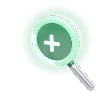
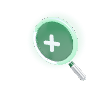
Lupa menor e proporcional (e à prova de sumir); Serviços com título junto ao menu e letras maiores
Claude-Session: https://claude.ai/code/session_01W4EMxrHJE2KvoUZMjh5ybf

Changed region(s): [[0.25, 0.0938, 1.0, 0.9688]]

diff --git a/src/app/theme-claro.css b/src/app/theme-claro.css
@@ -1752,9 +1752,9 @@ html.bolha-aberta a, html.bolha-aberta button, html.bolha-aberta button * { curs
 /* ================= LUPA 3D que amplia o texto (23/11/2026, modelo 2 do Victor) — src/lib/bolha.ts =================
    O card não sai do lugar: a lente segue o mouse e mostra uma cópia do card ampliada 2,2x embaixo dela. */
 .card--bolha.com-lupa, .card--bolha.com-lupa * { cursor: none !important; }
-.lupa-lente { position: fixed; left: 0; top: 0; width: 468px; height: 501px; z-index: 135; pointer-events: none; opacity: 0; will-change: transform; }
-.lupa-lente__vidro { position: absolute; left: 107px; top: 115px; width: 210px; height: 210px; border-radius: 50%; overflow: hidden; background: #fff;
-  box-shadow: inset 0 0 0 1px rgba(255, 255, 255, .6), inset 0 0 22px rgba(6, 42, 23, .28); }
+.lupa-lente { position: fixed; left: 0; top: 0; width: 211px; height: 227px; z-index: 135; pointer-events: none; opacity: 0; will-change: transform; }
+.lupa-lente__vidro { position: absolute; left: 31.5px; top: 36px; width: 132px; height: 132px; border-radius: 50%; overflow: hidden; background: #fff;
+  box-shadow: inset 0 0 0 1px rgba(255, 255, 255, .6), inset 0 0 14px rgba(6, 42, 23, .28); }
 .lupa-lente__conteudo { position: absolute; left: 0; top: 0; transform-origin: 0 0; }
 .lupa-lente__brilho { position: absolute; inset: 0; border-radius: 50%; pointer-events: none;
   background: radial-gradient(ellipse 46% 30% at 32% 22%, rgba(255, 255, 255, .55), transparent 70%),
@@ -1766,3 +1766,19 @@ html.bolha-aberta a, html.bolha-aberta button, html.bolha-aberta button * { curs
 .lupa-lente .lupa-ctx > i, .lupa-lente .work__grid > i, .lupa-lente .work__grupo-head { display: none !important; }
 .lupa-lente .card, .lupa-lente .project { margin: 0 !important; transform: none !important; translate: none !important; scale: none !important;
   animation: none !important; opacity: 1 !important; visibility: visible !important; }
+
+/* SERVIÇOS no computador (Victor, 23/11/2026: "título longe do menu", "letra muito pequena"): título a ~10px do menu
+   (o respiro vem de paginas.ts), letras maiores e o bloco usando 90% da LARGURA DA TELA (largura de layout = tela ÷ zoom):
+   cards largos = menos linhas = a página cabe com zoom maior = letra maior na tela */
+@media (min-width: 761px) {
+  html.modo-paginas .services { padding-top: 0 !important; }
+  html.modo-paginas .services__pin { padding: 0 0 18px !important; }
+  html.modo-paginas .services__head { margin-bottom: 18px !important; }
+  html.modo-paginas .services__head, html.modo-paginas .services__track { width: calc(90vw * var(--inv-zoom, 1)) !important; max-width: none !important;
+    margin-left: auto !important; margin-right: auto !important; padding-left: 0 !important; padding-right: 0 !important; }
+  html.modo-paginas .services .section-title { font-size: clamp(2.4rem, 3.4vw, 3.4rem) !important; }
+  html.modo-paginas .services__lead { font-size: 1.2rem !important; max-width: 70ch !important; }
+  html.modo-paginas .services__track .card h3, html.modo-paginas .services__track .card:nth-child(1) h3 { font-size: 1.75rem !important; }
+  html.modo-paginas .services__track .card p, html.modo-paginas .services__track .card:nth-child(1) p { font-size: 1.22rem !important; line-height: 1.5 !important; }
+  html.modo-paginas .services__track .card--cta h3 { font-size: 1.9rem !important; }
+}

diff --git a/src/lib/bolha.ts b/src/lib/bolha.ts
@@ -14,9 +14,9 @@ import gsap from "gsap";
  *    Esc, voltando para o card. A cópia mora no <body> (fora do `zoom` das páginas) e rola com o mouse por dentro.
  *    Enquanto aberta, `html.bolha-aberta` segura a troca de páginas (paginas.ts).
  */
-const AUMENTO = 2.2;
-// moldura renderizada: centro da lente e raio interno (px CSS) dentro da imagem de 468×501
-const MOLDURA = { w: 468, h: 501, cx: 212, cy: 220, r: 105 };
+const AUMENTO = 2.1;
+// moldura renderizada (2ª versão, "mais proporcional": aro fino, cabo curto): centro da lente e raio interno em px CSS
+const MOLDURA = { w: 211, h: 227, cx: 97.5, cy: 102, r: 66 };
 
 export function iniciarBolha(): () => void {
   const html = document.documentElement;
@@ -75,6 +75,8 @@ export function iniciarBolha(): () => void {
   const posicionar = () => {
     raf = 0;
     if (!alvo || !copiaLupa) return;
+    // (proteção: se a cópia sumiu da lente — ex.: uma saída e entrada muito rápidas —, refaz)
+    if (!conteudo.firstChild || !copiaLupa.isConnected) { const a = alvo; alvo = null; mostrarLupa(a, { clientX: mx, clientY: my } as MouseEvent); return; }
     // a lente acompanha o mouse com um leve atraso (movimento macio)
     lx += (mx - lx) * 0.38; ly += (my - ly) * 0.38;
     lente.style.translate = `${lx - MOLDURA.cx}px ${ly - MOLDURA.cy}px`; // (`translate` à parte: o gsap usa `transform` para aparecer)
@@ -101,7 +103,7 @@ export function iniciarBolha(): () => void {
   const esconderLupa = () => {
     alvo?.classList.remove("com-lupa");
     alvo = null;
-    if (visivel) { visivel = false; gsap.to(lente, { opacity: 0, scale: 0.8, duration: 0.2, ease: "power2.in", onComplete: () => { if (!visivel) conteudo.replaceChildren(); } }); }
+    if (visivel) { visivel = false; gsap.to(lente, { opacity: 0, scale: 0.8, duration: 0.2, ease: "power2.in", onComplete: () => { if (!visivel && !alvo) conteudo.replaceChildren(); } }); }
   };
   lente.style.transformOrigin = `${MOLDURA.cx}px ${MOLDURA.cy}px`;
 

diff --git a/src/lib/paginas.ts b/src/lib/paginas.ts
@@ -78,7 +78,9 @@ export function iniciarPaginas(gsap: typeof GsapT, ScrollTrigger: typeof STT, le
       // --inv-zoom: o fundo de largura total (100vw) encolheria junto com o zoom; o CSS compensa com ele
       const aplicar = (v: number) => {
         g.secs.forEach((s) => { s.style.zoom = String(v); s.style.setProperty("--inv-zoom", String(1 / v)); });
-        primeira.style.setProperty("padding-top", `${Math.max(respiro0, (ch + 12) / v)}px`, "important");
+        // Serviços: o título fica a ~10px do menu (Victor, 23/11/2026) — sem o respiro original da seção
+        const respiroMin = primeira.matches(".services") ? 0 : respiro0;
+        primeira.style.setProperty("padding-top", `${Math.max(respiroMin, (ch + (primeira.matches(".services") ? 0 : 12)) / v)}px`, "important");
       };
       aplicar(z);
       // com zoom a largura útil muda (imagens com proporção ficam mais altas/baixas): corrige medindo de novo

diff --git a/CLAUDE.md b/CLAUDE.md
@@ -200,7 +200,8 @@ O endereço de produção é o do projeto `mafra-site` na Vercel.
 - **Cards de Serviços e Cases** (23/11/2026, Victor: monitor de 15,6" não dava para ler; `src/lib/bolha.ts`, só computador):
   1) PASSAR O MOUSE = LUPA 3D que segue o mouse e AMPLIA (2,2x) só o texto embaixo dela; o card NÃO sai do lugar
   ("não quero que o menu venha para frente"). Modelo 2 escolhido pelo Victor (aro azul-ciano aceso, cabo cromado),
-  renderizado em 3D com three.js: `/public/lupa-moldura.webp` (aro vazado; centro 212,220, raio 105 em 468×501) e
+  renderizado em 3D com three.js: `/public/lupa-moldura.webp` (2ª versão "proporcional": aro fino, cabo curto; centro 97,5/102,
+  raio 66 em 211×227 — a 1ª era grande demais) e
   `/public/lupa-cursor.png` (ícone do cursor nas Perguntas e na dica). Dentro da lente vai uma cópia do card na MESMA
   estrutura de classes (inclusive um `#cases` temporário) para as letras ficarem idênticas.
   2) CLIQUE = a cópia sai do card e vem ao centro como GELATINA: cresce em 8 balanços (achata/estica, cada vez menos)
@@ -211,6 +212,9 @@ O endereço de produção é o do projeto `mafra-site` na Vercel.
   NÃO abre na lista (a página mudava de altura e o encaixe encolhia/crescia tudo): o clique abre um painel em tela cheia —
   círculo escuro nasce do ponto do clique, pergunta sobe palavra por palavra, resposta acende, luz passa; ← → navegam.
   `html.bolha-aberta` segura a troca de páginas enquanto bolha/foco estão abertos.
+- **Serviços no computador** (23/11/2026): título encostado no menu (respiro = altura do menu, em `paginas.ts`), cards e
+  cabeçalho com 90% da LARGURA DA TELA (`calc(90vw * var(--inv-zoom))`), letras maiores (h3 1,75rem, texto 1,22rem).
+  Em 1366×650 o texto dos cards foi de ~8px para ~13px na tela.
 - **"Voltar ao topo"** no computador usa `__paginas.ir(0)` (a rolagem suave fica desligada no modo páginas).
 - Lista do topo ("/ Diagnóstico & processos…"): +2px e negrito; texto do topo ("Entendo a rotina…") +1px e negrito; menu do topo em negrito (monitor pequeno). Bloco de texto do topo 160px mais à esquerda no computador (`translate`, o vídeo NÃO muda).
 - Botões verdes: flash claro passando da esquerda para a direita a cada 3 s (`verde-varre`).
